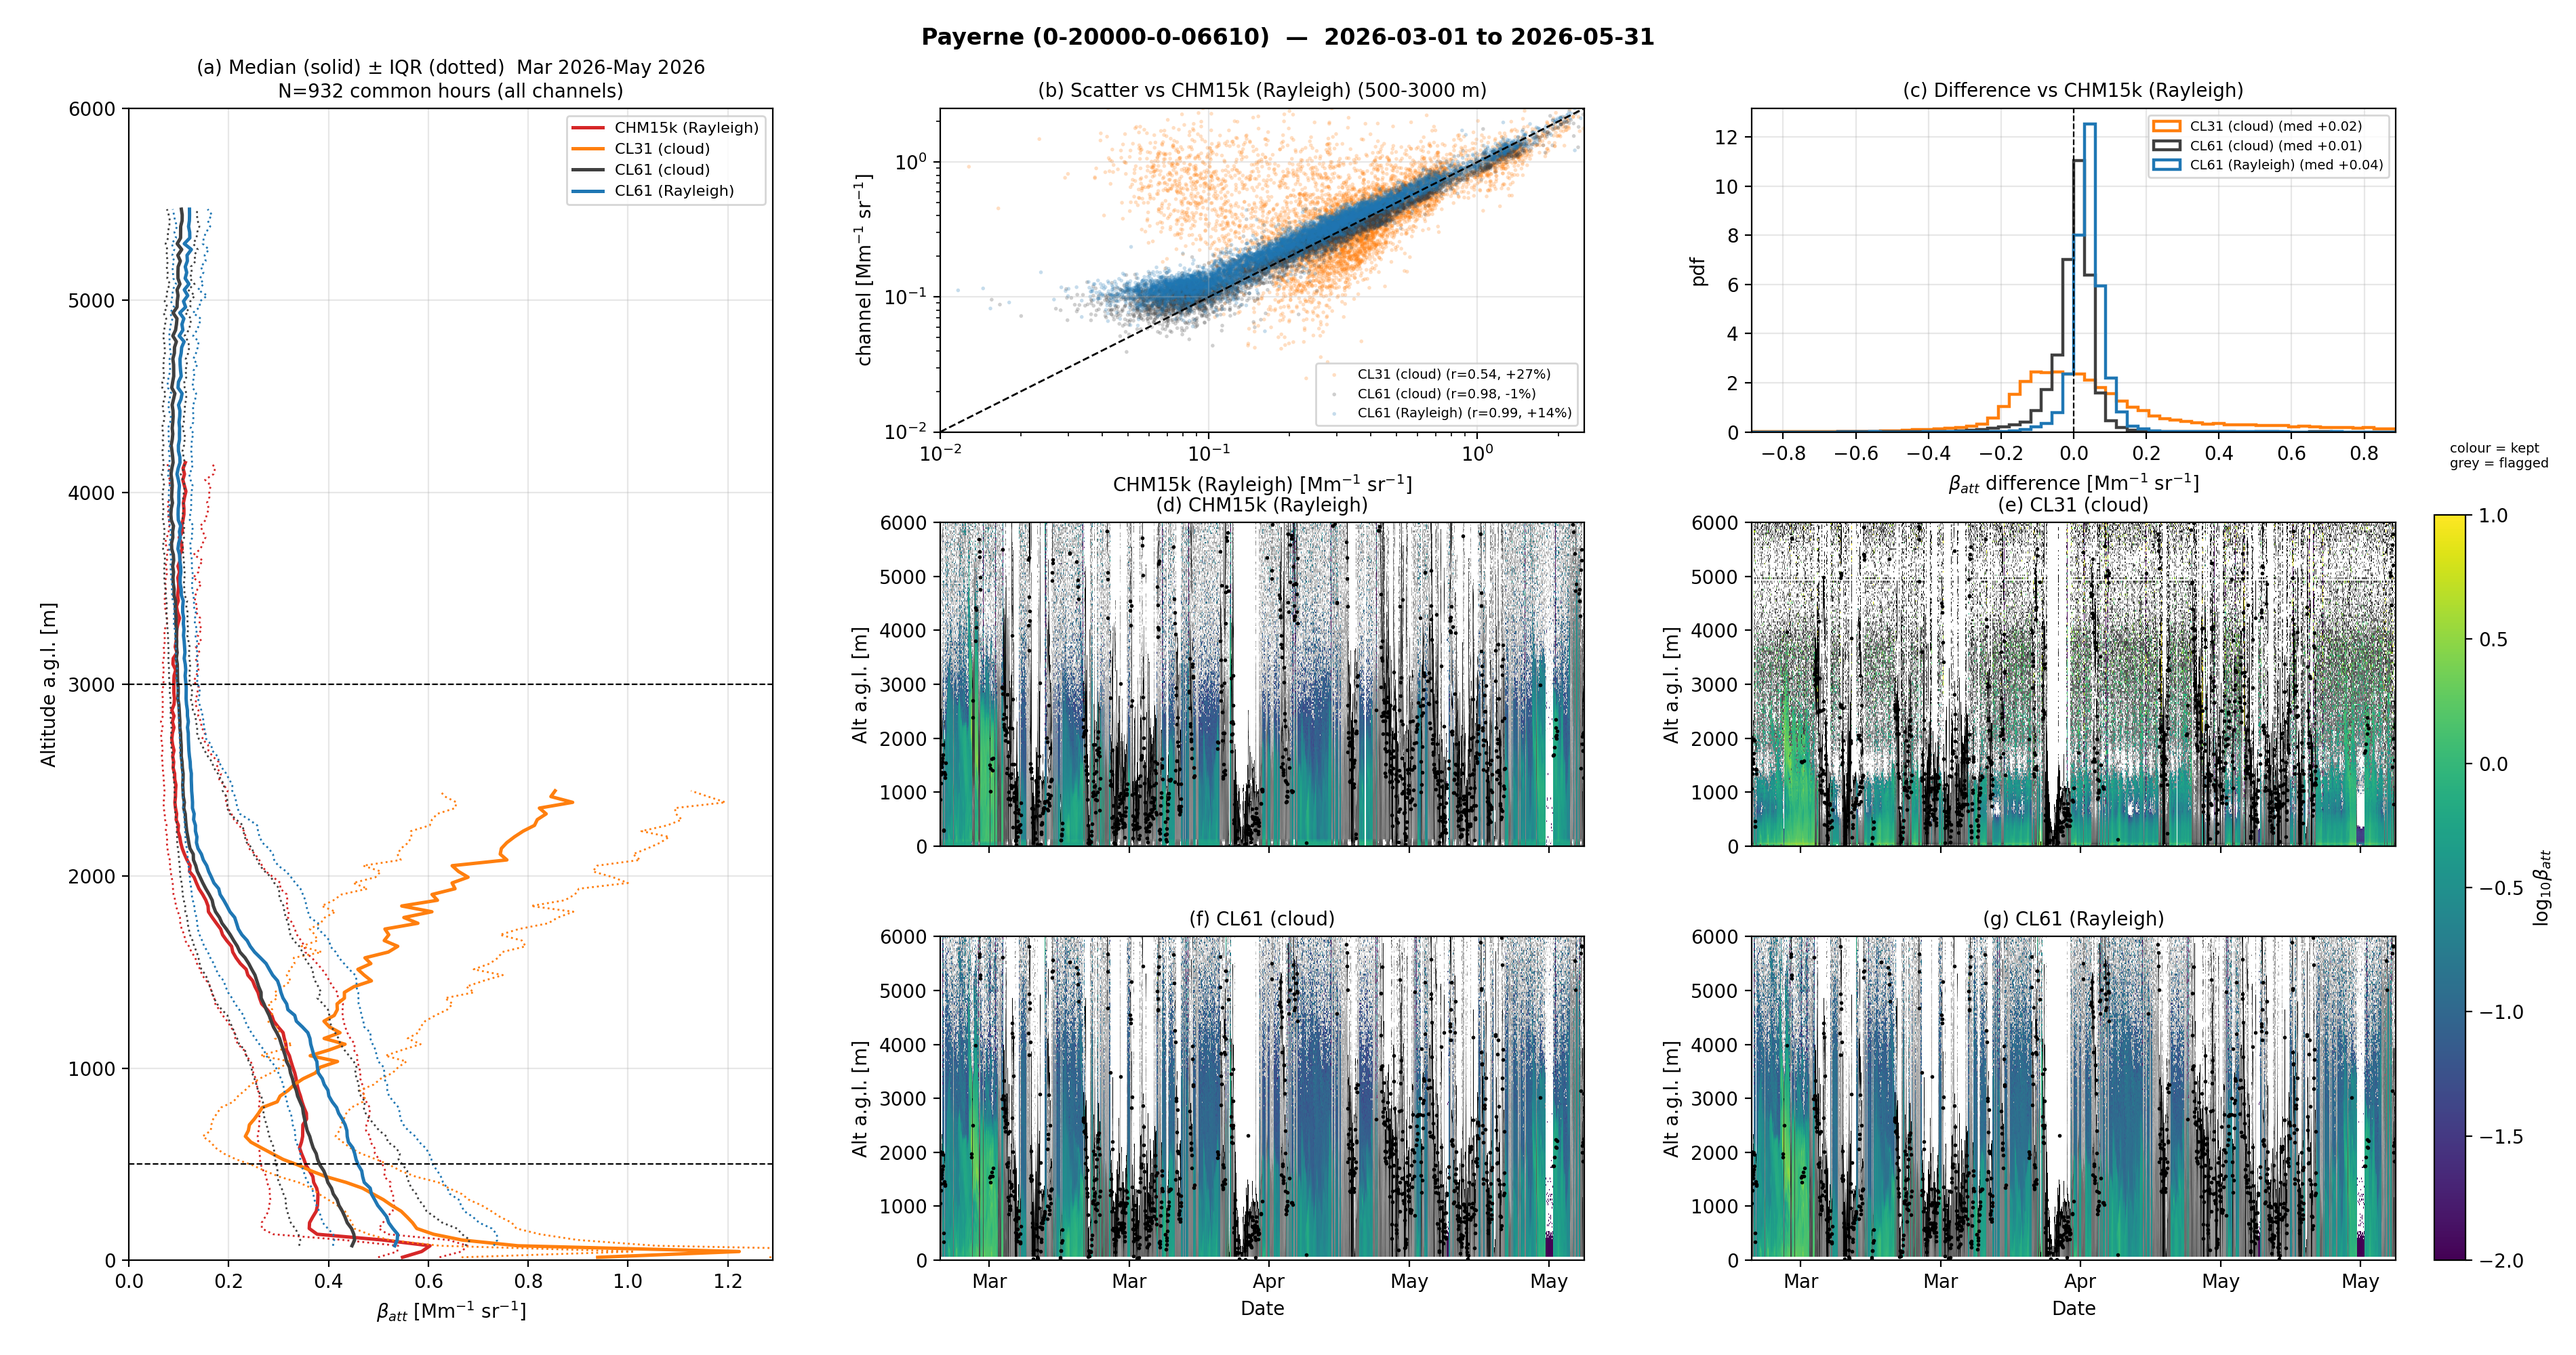
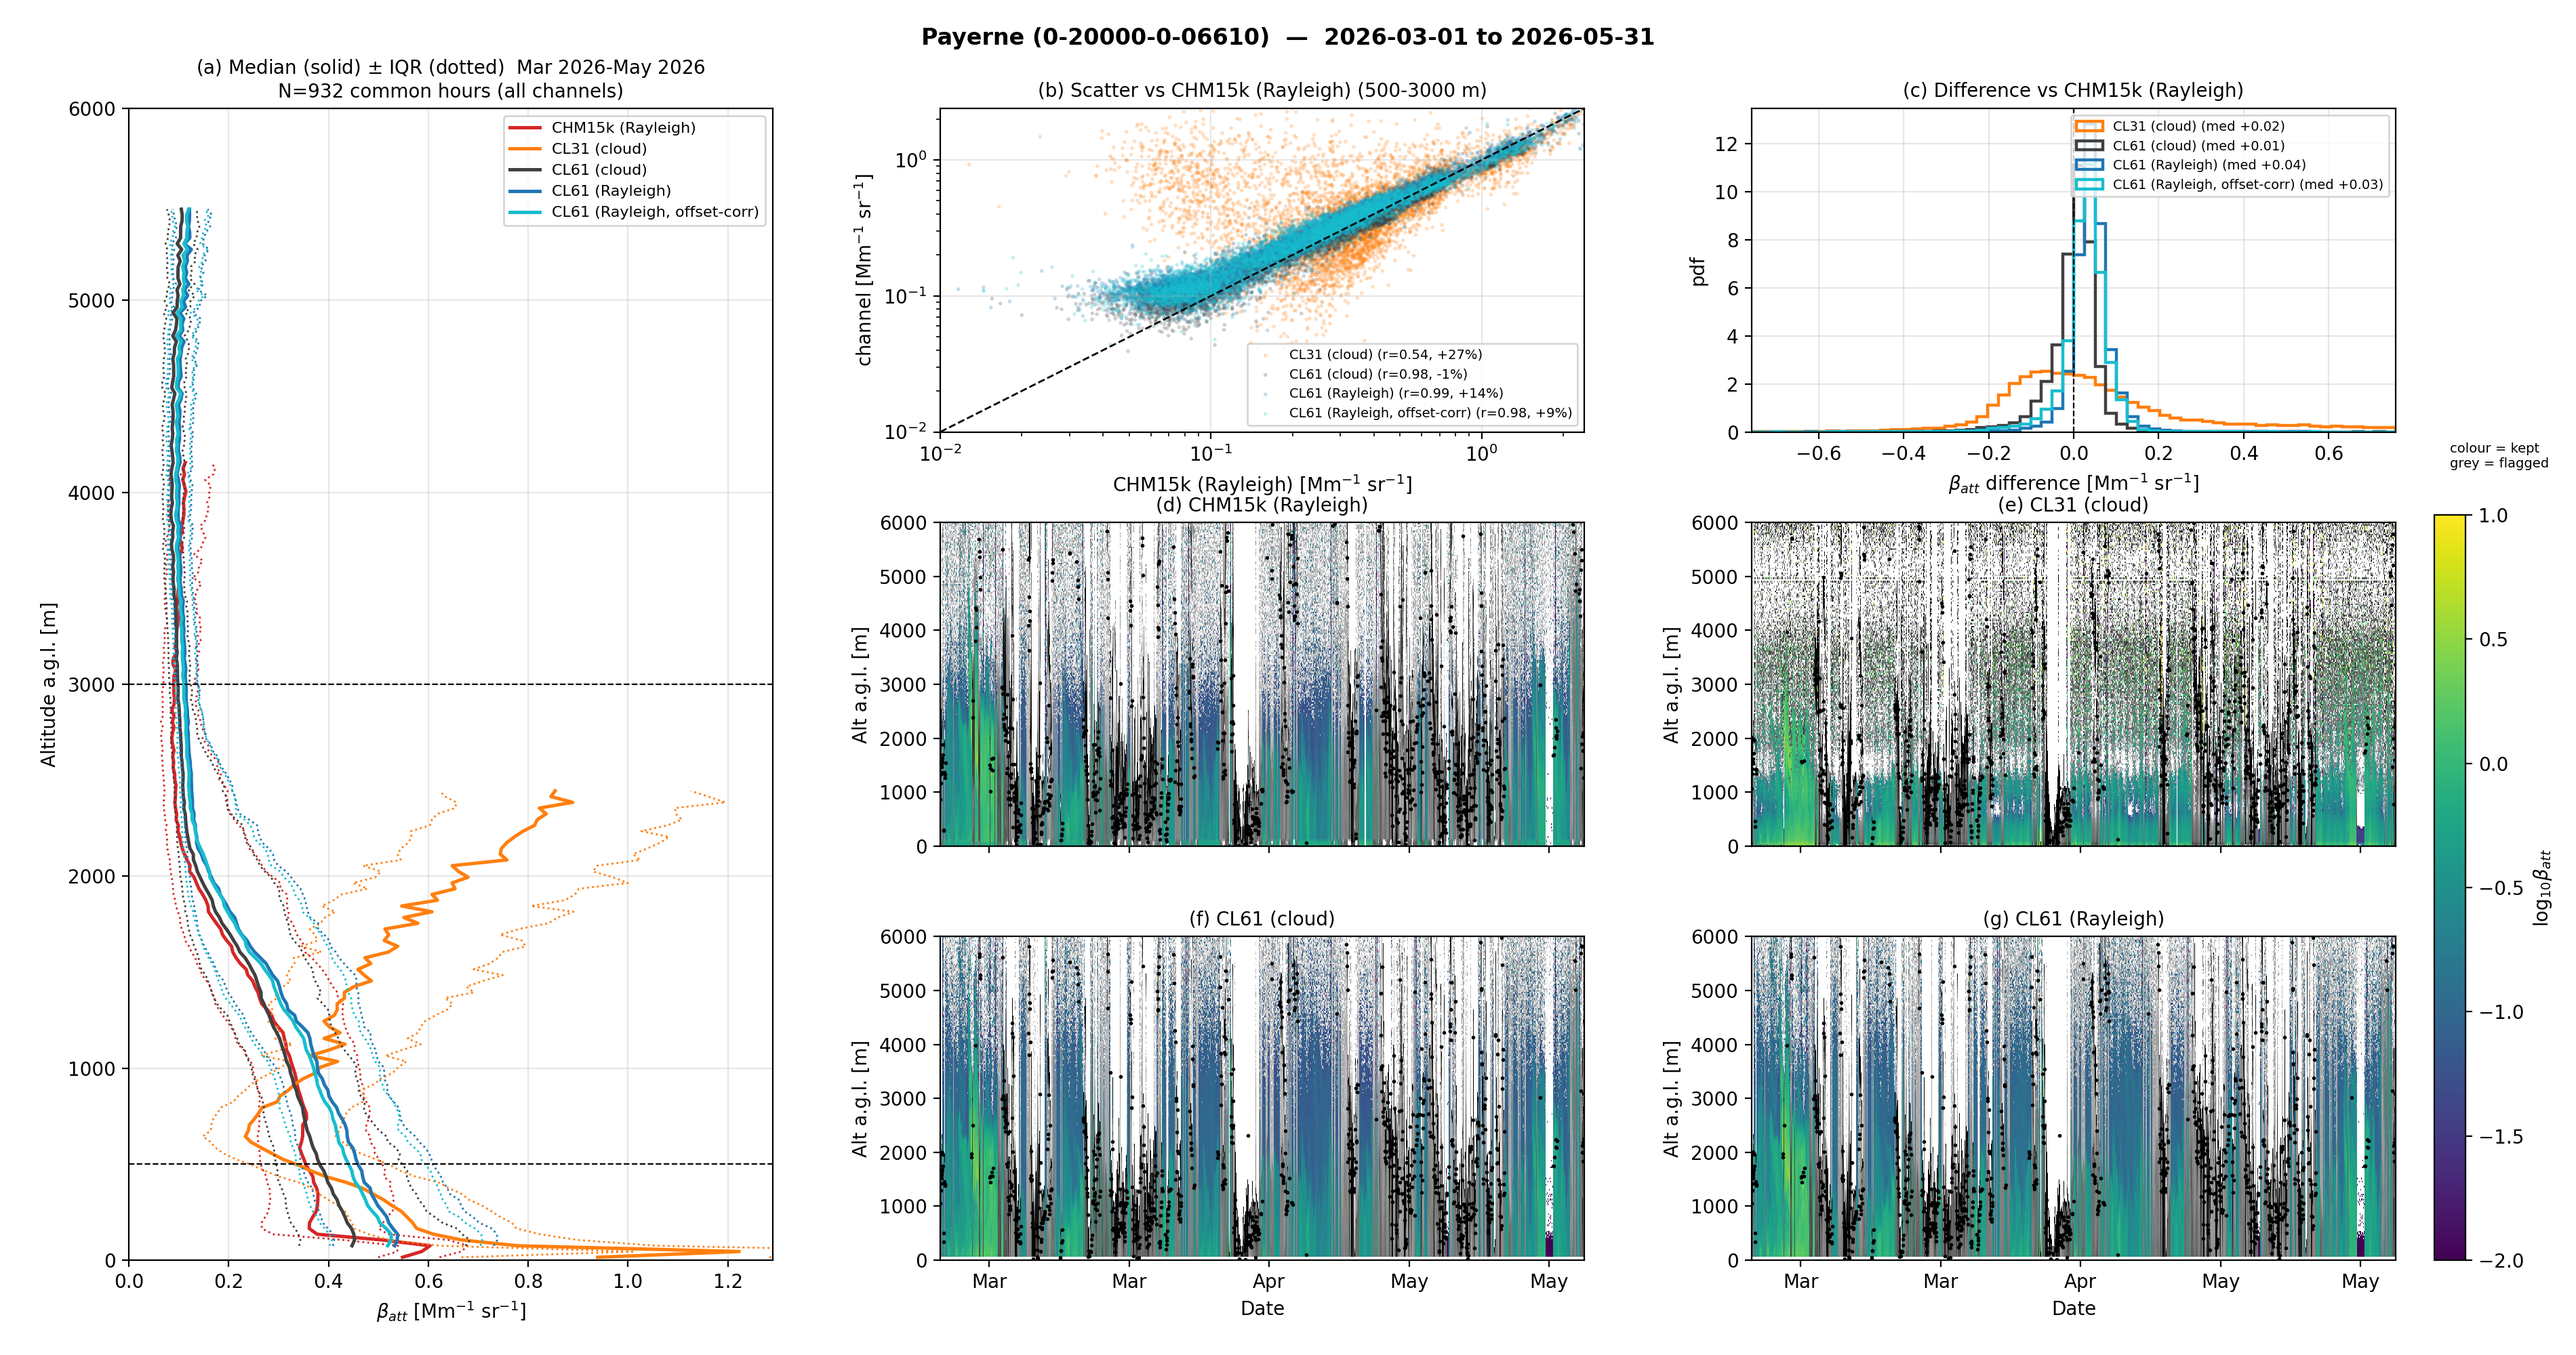
paper_validation_report: both CL61 Rayleigh variants (native +13.5%, offset-corrected +8.6%) + night-offset closure

diff --git a/doc/reports/paper_validation_report.md b/doc/reports/paper_validation_report.md
@@ -135,7 +135,8 @@ pair **med relbias / log r** is the headline):
 |---|---|---|---|---|---|---|
 | Payerne | CL31 (cloud) | +4.7 % | 0.31 | +27.1 % | 0.54 | 34 939 |
 | Payerne | CL61 (cloud) | **+4.3 %** | **0.97** | −0.6 % | 0.98 | 70 739 |
-| Payerne | CL61 (Rayleigh) | +20.9 % | 0.97 | +13.5 % | 0.99 | 70 739 |
+| Payerne | CL61 (Rayleigh, native) | +20.9 % | 0.97 | +13.5 % | 0.99 | 70 739 |
+| Payerne | **CL61 (Rayleigh, offset-corrected)** | **+16.8 %** | 0.97 | **+8.6 %** | 0.98 | 70 740 |
 | Amsterdam | CHM15k B | +15.4 % | 0.97 | +23.7 % | 0.96 | 28 558 |
 | Amsterdam | CHM15k C | **−2.5 %** | **0.97** | −3.5 % | 0.93 | 32 481 |
 | Amsterdam | CHM15k D | **−3.3 %** | **0.97** | −1.0 % | 0.95 | 33 213 |
@@ -306,9 +307,12 @@ measurements on the Payerne CL61 (three covered-telescope windows, May–June 20
 range-dependent **negative signal offset** (−0.008/−0.017/−0.027 Mm⁻¹sr⁻¹ at 3/5/8 km) that
 amounts to −8…−13 % of the molecular signal at the fit windows. **Recalibrating with the measured
 offset removed** moves the per-night Rayleigh constants by +4…+23 % and the median gap to the
-cloud constant from **−26.5 % to −9.8 %** (common nights) — i.e. ≈ ⅔ of the method discrepancy is
-the instrument offset (the remainder is consistent with a ≈ 40 % larger night-time offset; a
-night-time hood test is pending). Across the network the offset's unit-specific sign explains the
+cloud constant from **−26.5 % to −9.8 %**; in the station validation the offset-corrected CL61
+Rayleigh channel reads **+8.6 % vs the CHM15k (from +13.5 % native)** — both variants are shown
+in the Payerne figure and table. The remainder is quantitatively explained: the 25.5-h hood
+window spans a full night and shows the offset is **×1.33 deeper at night** (−0.016 vs −0.012 at
+3–6 km), so the daytime-hood correction under-corrects the night-time Rayleigh fits by exactly
+the residual amount. Across the network the offset's unit-specific sign explains the
 whole CL61 pattern, including Lindenberg's inverted ratio (positive, growing offset).
 
 **Hypotheses tested and excluded for the ~15 % Rayleigh-vs-cloud C_L gap** (Payerne recalibration

diff --git a/doc/reports/paper_python_validation.md b/doc/reports/paper_python_validation.md
@@ -18,6 +18,7 @@
 | payerne | CL31 (cloud) | cloud | +27.1% | +4.7% | 0.540 | 0.306 | 34939 | +31.8% | 0.477 |
 | payerne | CL61 (cloud) | cloud | -0.6% | +4.3% | 0.984 | 0.966 | 70739 | +16.0% | 0.987 |
 | payerne | CL61 (Rayleigh) | rayleigh | +13.5% | +20.9% | 0.987 | 0.970 | 70739 | +1.7% | 0.987 |
+| payerne | CL61 (Rayleigh, offset-corr) | rayleigh | +8.6% | +16.8% | 0.984 | 0.966 | 70740 | +nan% | nan |
 | amsterdam | CHM15k A *(ref)* | rayleigh | +0.0% | +0.0% | 1.000 | 1.000 | 36220 | +0.0% | 1.000 |
 | amsterdam | CHM15k B | rayleigh | +23.7% | +15.4% | 0.955 | 0.973 | 28558 | +24.0% | 0.956 |
 | amsterdam | CHM15k C | rayleigh | -3.5% | -2.5% | 0.931 | 0.965 | 32481 | -14.9% | 0.925 |
